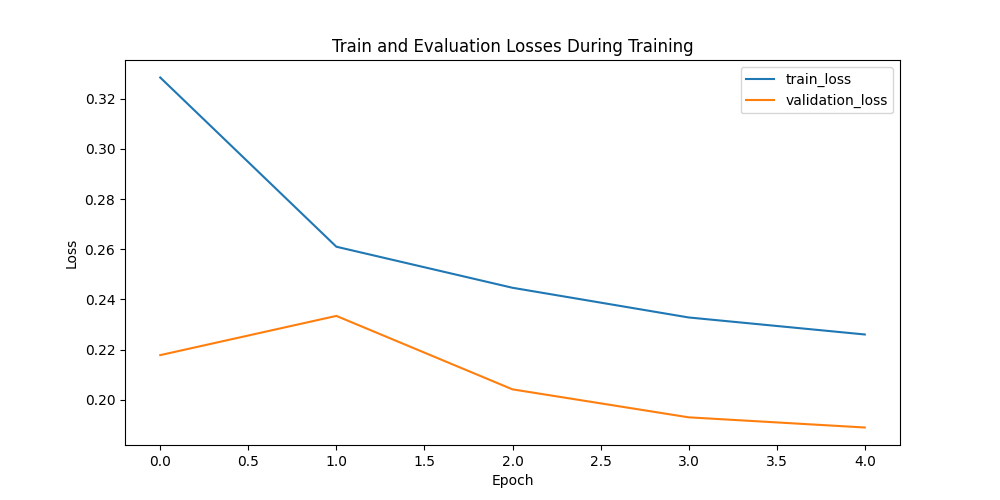
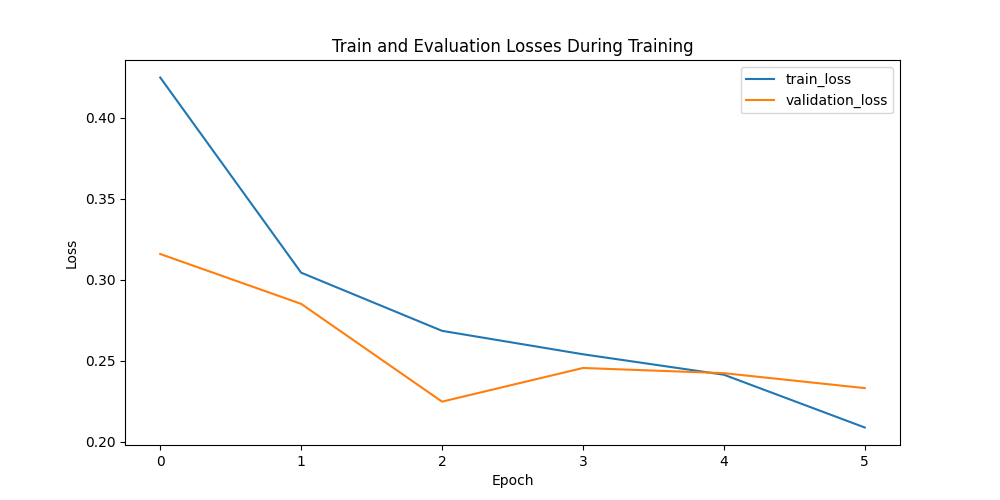
feat: final training

diff --git a/src/DET_524839/training.py b/src/DET_524839/training.py
@@ -24,7 +24,7 @@ from callbacks import EarlyStopping, BestModelLogger, Callback
 
 # --- Training and Validation part
 TRAIN_CONFIG = {
-    "epochs": 10,
+    "epochs": 12,
     "batch_size": 2,
     "num_workers": 4,
     "optimizer": torch.optim.AdamW,
